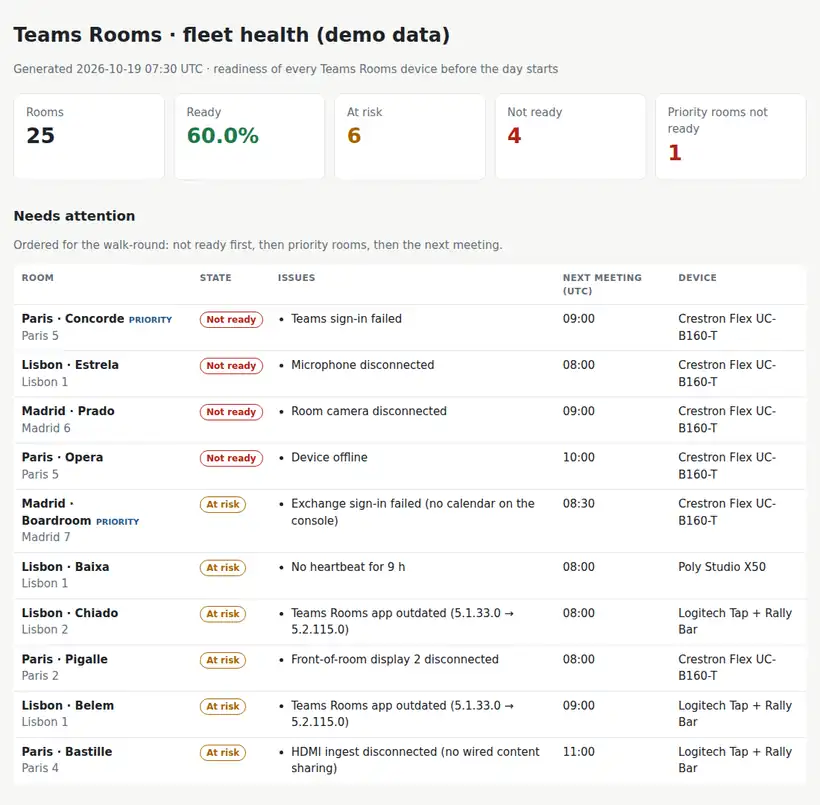
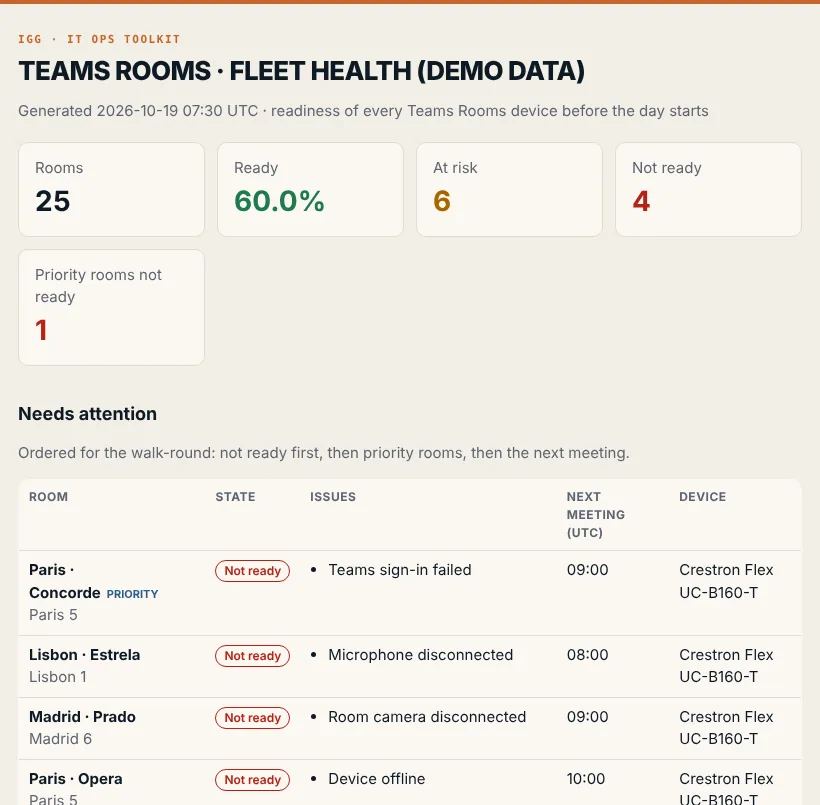
Report: IGG colours (paper, ink and the orange accent) and a new screenshot

diff --git a/rooms_health/report.py b/rooms_health/report.py
@@ -91,9 +91,9 @@ def _trend(rows: list[dict]) -> str:
 
 
 CSS = """
-:root{--bg:#f7f7f5;--card:#fff;--ink:#1d2329;--muted:#66707a;--line:#e3e5e8;--ok:#1f7a4d;--warn:#a86400;--bad:#b42318;--accent:#2f5d8a}
+:root{--bg:#f2eee6;--card:#fbf8f3;--ink:#0e1a24;--muted:#5d6670;--line:#e2dccf;--ok:#1f7a4d;--warn:#a86400;--bad:#b42318;--accent:#2f5d8a}
 @media (prefers-color-scheme:dark){:root{--bg:#14181c;--card:#1c2228;--ink:#e8eaed;--muted:#9aa4ae;--line:#2c343c;--ok:#4cc38a;--warn:#f0a83a;--bad:#f2685c;--accent:#7fb0e0}}
-*{box-sizing:border-box}body{margin:0;background:var(--bg);color:var(--ink);font:15px/1.5 system-ui,-apple-system,Segoe UI,sans-serif}
+*{box-sizing:border-box}body{border-top:4px solid #c4672b}h1{font-weight:800;letter-spacing:-.025em;text-transform:uppercase;line-height:1.05}h1::before{content:"IGG · IT Ops toolkit";display:block;font:600 11px/1.4 ui-monospace,SFMono-Regular,Menlo,monospace;letter-spacing:.14em;text-transform:uppercase;color:#c4672b;margin-bottom:10px}body{margin:0;background:var(--bg);color:var(--ink);font:15px/1.5 system-ui,-apple-system,Segoe UI,sans-serif}
 main{max-width:1100px;margin:0 auto;padding:28px 18px 60px}h1{font-size:26px;margin:0 0 4px}h2{font-size:18px;margin:34px 0 12px}
 .muted{color:var(--muted)}.tiles{display:grid;grid-template-columns:repeat(auto-fit,minmax(150px,1fr));gap:12px;margin-top:20px}
 .tile{background:var(--card);border:1px solid var(--line);border-radius:10px;padding:14px 16px}.tile b{display:block;font-size:28px}
